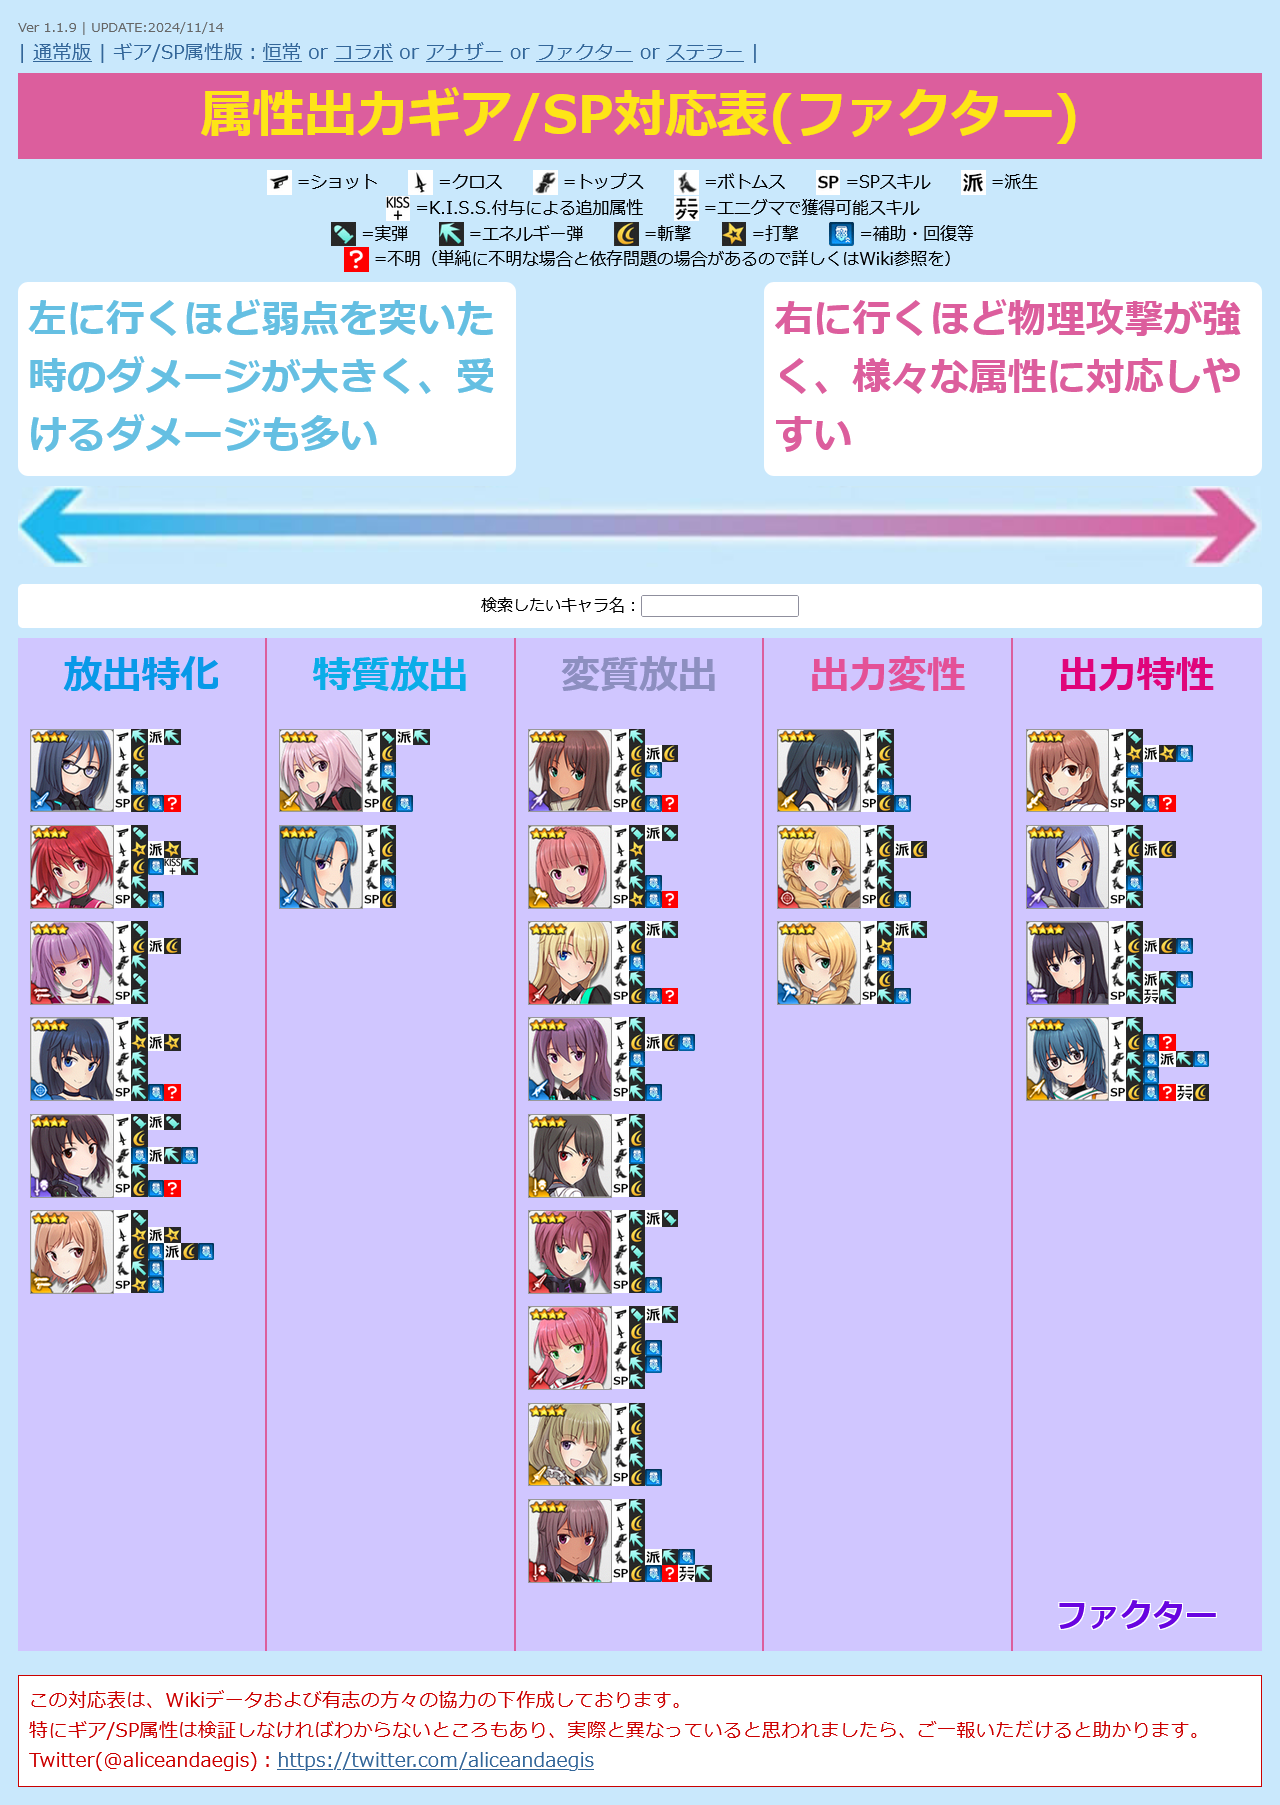
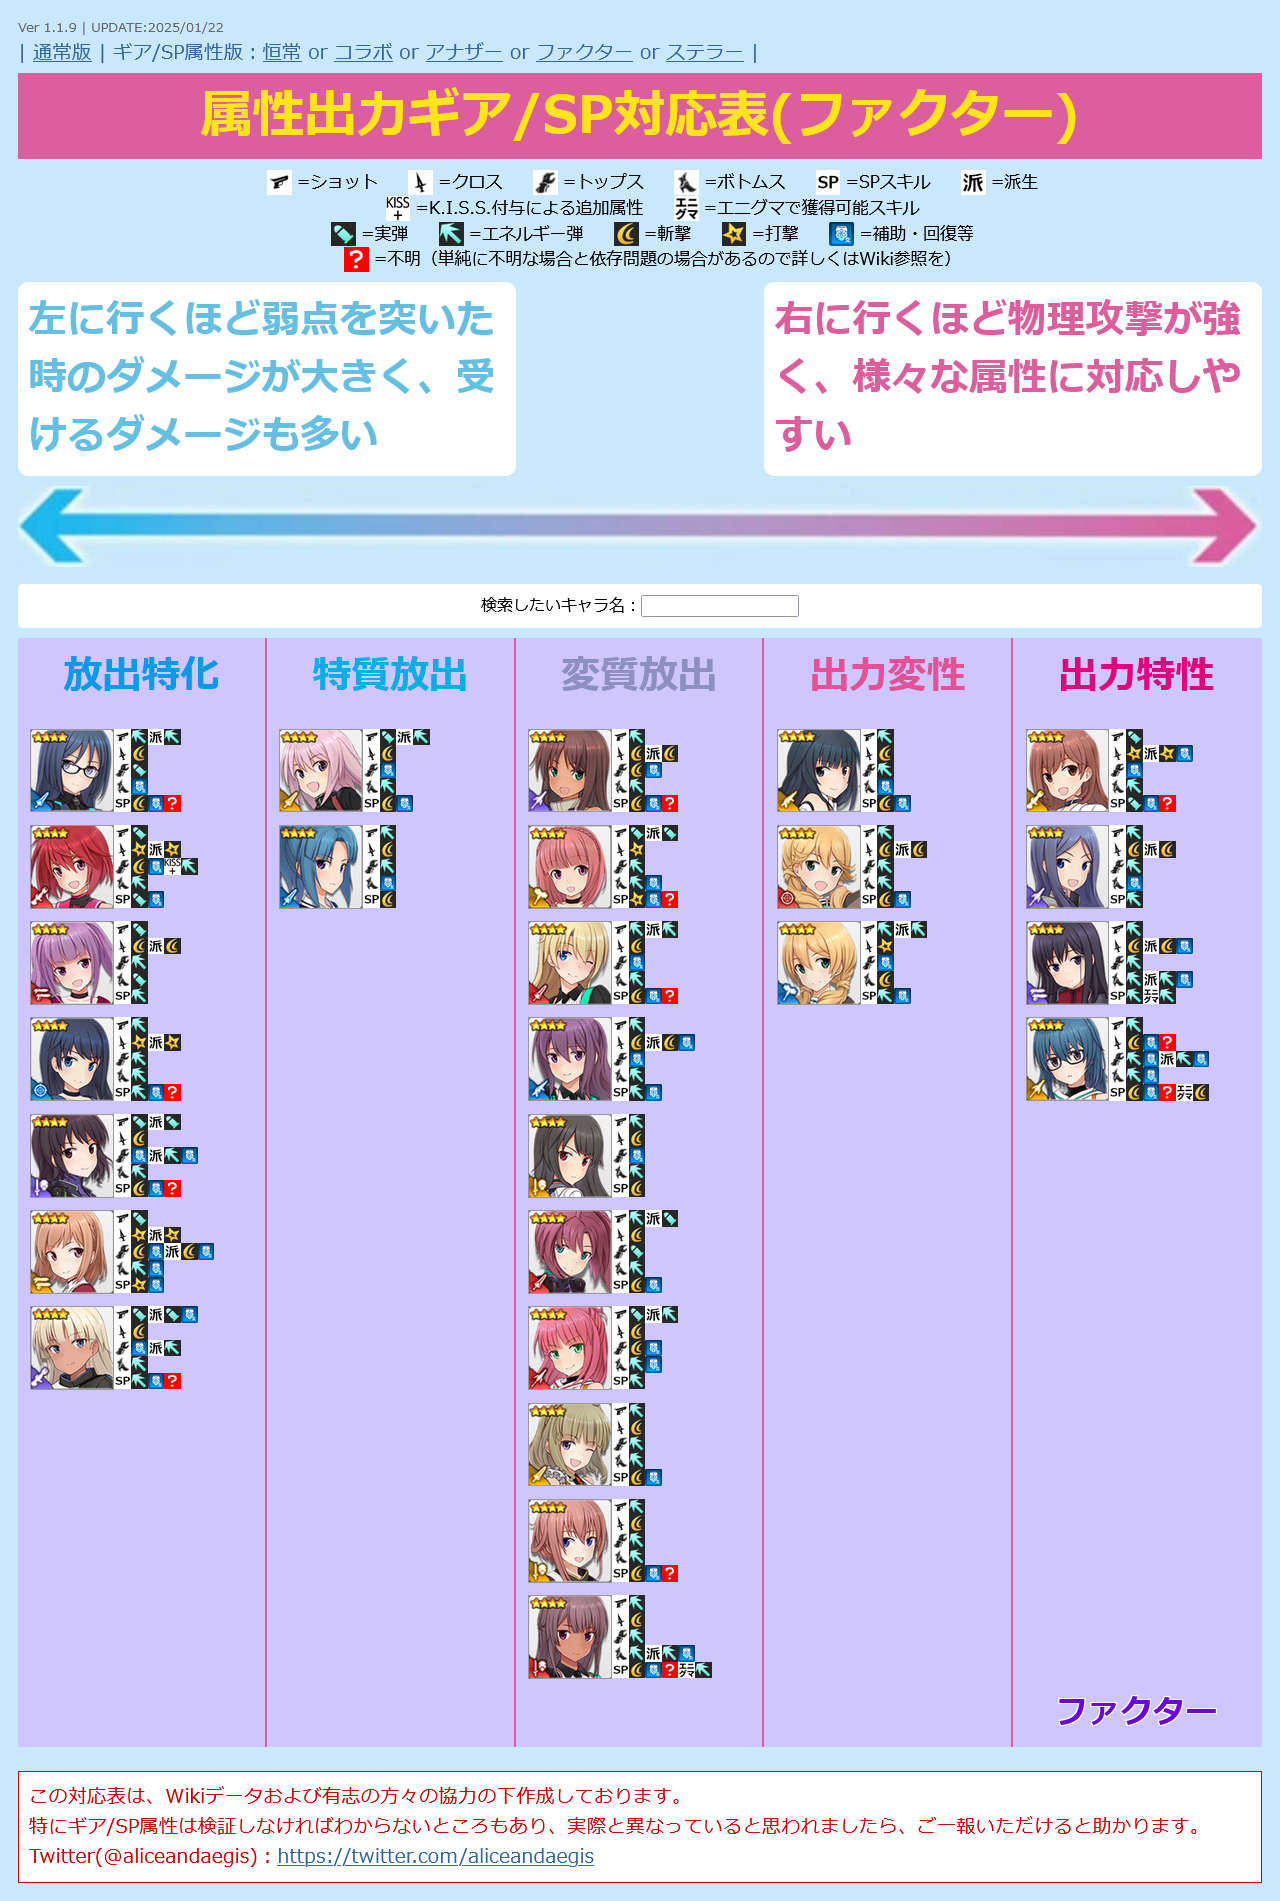
UPDATE charadata
・ファクター 金潟 すぐみ / クリエイトを追加
・ファクター 新居目 安里 / クリエイトを追加

Changed region(s): [[0.0, 0.0, 1.0, 0.9928]]

diff --git a/alice.html b/alice.html
@@ -12,7 +12,7 @@
   <script>
 
 /* 更新情報 必要に応じて書き換えてください */
-  var version = "Ver 1.1.9 | UPDATE:2024/12/24";
+  var version = "Ver 1.1.9 | UPDATE:2025/01/22";
 
 
 /*
@@ -1354,6 +1354,20 @@
       "category": "10"
     },
     {
+      "id": "32",
+      "type": "3",
+      "src": "factor-sugumi.png",
+      "name": "金潟 すぐみ / クリエイト",
+      "equip1": "2",
+      "equip2": "3",
+      "equip3": "2",
+      "equip4": "2",
+      "sp": "35?",
+      "attr": "1",
+      "link": "https://wikiwiki.jp/alicegear/%E9%87%91%E6%BD%9F%E3%81%99%E3%81%90%E3%81%BF/%E3%82%AF%E3%83%AA%E3%82%A8%E3%82%A4%E3%83%88",
+      "category": "11"
+    },
+    {
       "id": "33",
       "type": "5",
       "src": "normal-yasuri.png",
@@ -1380,6 +1394,20 @@
       "attr": "2",
       "link": "https://wikiwiki.jp/alicegear/%E6%96%B0%E5%B1%85%E7%9B%AE%E5%AE%89%E9%87%8C%E7%B4%BA%E7%A2%A7",
       "category": "10"
+    },
+    {
+      "id": "33",
+      "type": "1",
+      "src": "factor-yasuri.png",
+      "name": "新居目 安里 / クリエイト",
+      "equip1": "1/15",
+      "equip2": "3",
+      "equip3": "5/2",
+      "equip4": "2",
+      "sp": "25?",
+      "attr": "2",
+      "link": "https://wikiwiki.jp/alicegear/%E6%96%B0%E5%B1%85%E7%9B%AE%E5%AE%89%E9%87%8C/%E3%82%AF%E3%83%AA%E3%82%A8%E3%82%A4%E3%83%88",
+      "category": "11"
     },
     {
       "id": "34",
@@ -2494,9 +2522,9 @@
       "name": "SOLラプター / BEAST MODE",
       "equip1": "1",
       "equip2": "3",
-      "equip3": "15?",
-      "equip4": "15?",
-      "sp": "1?",
+      "equip3": "15",
+      "equip4": "15",
+      "sp": "1",
       "attr": "3",
       "link": "https://wikiwiki.jp/alicegear/SOL%E3%83%A9%E3%83%97%E3%82%BF%E3%83%BC/BEAST%20MODE",
       "category": "99"
